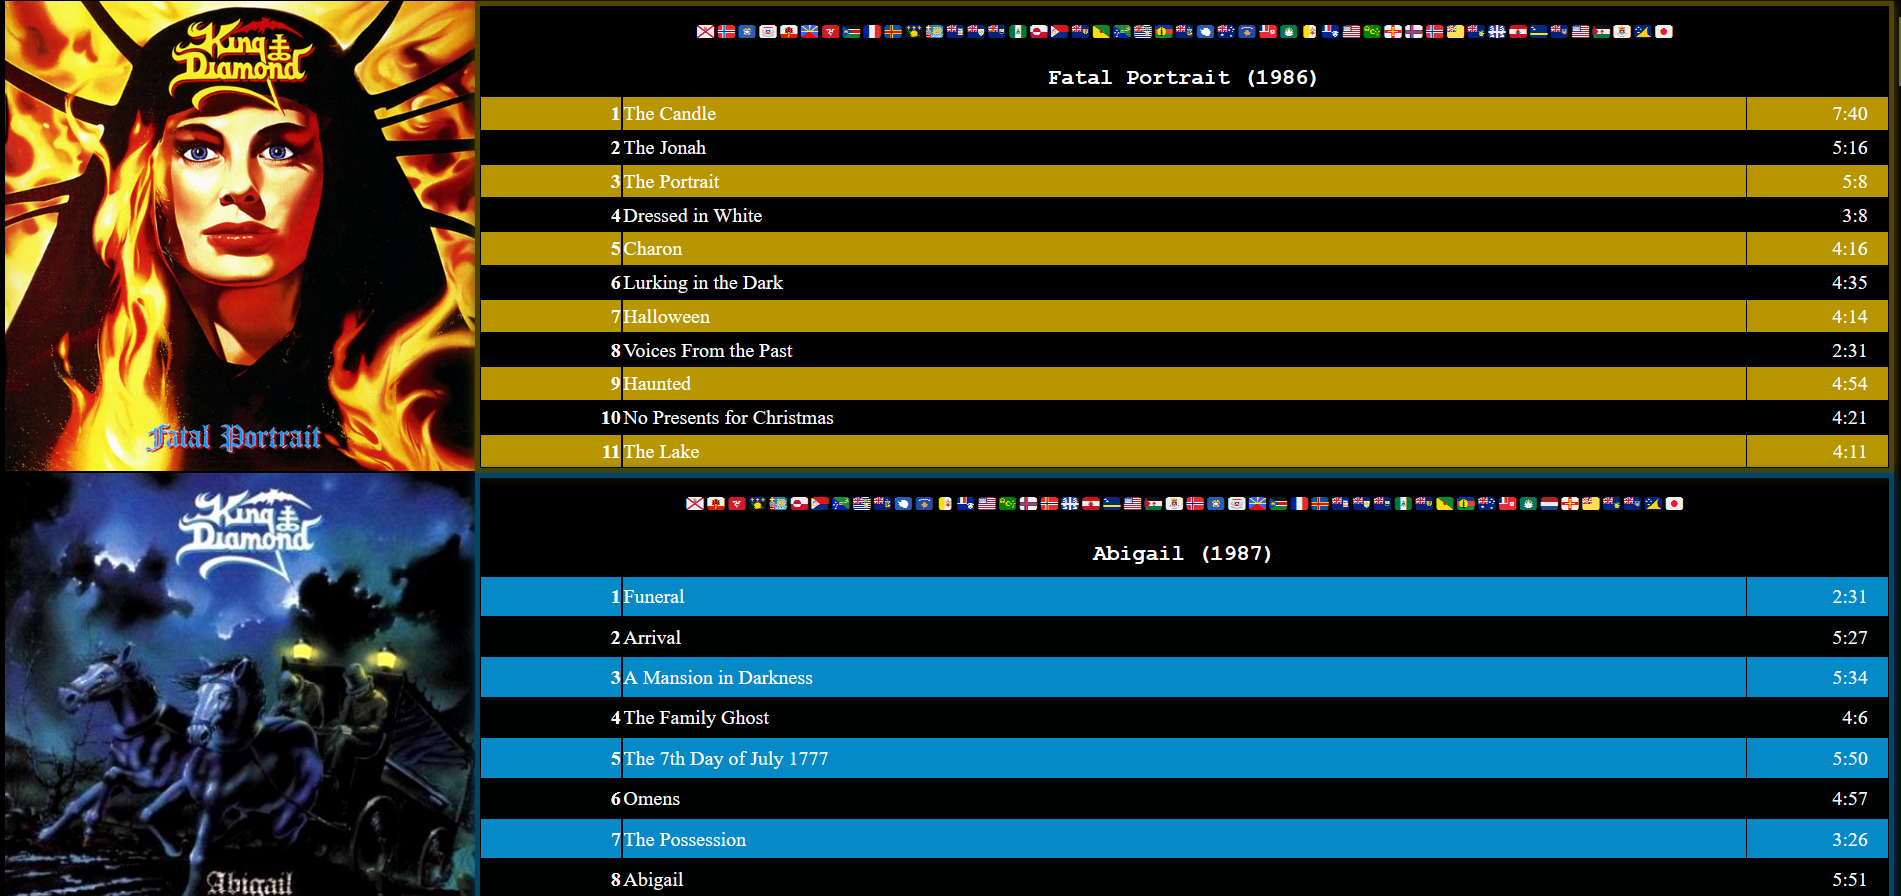
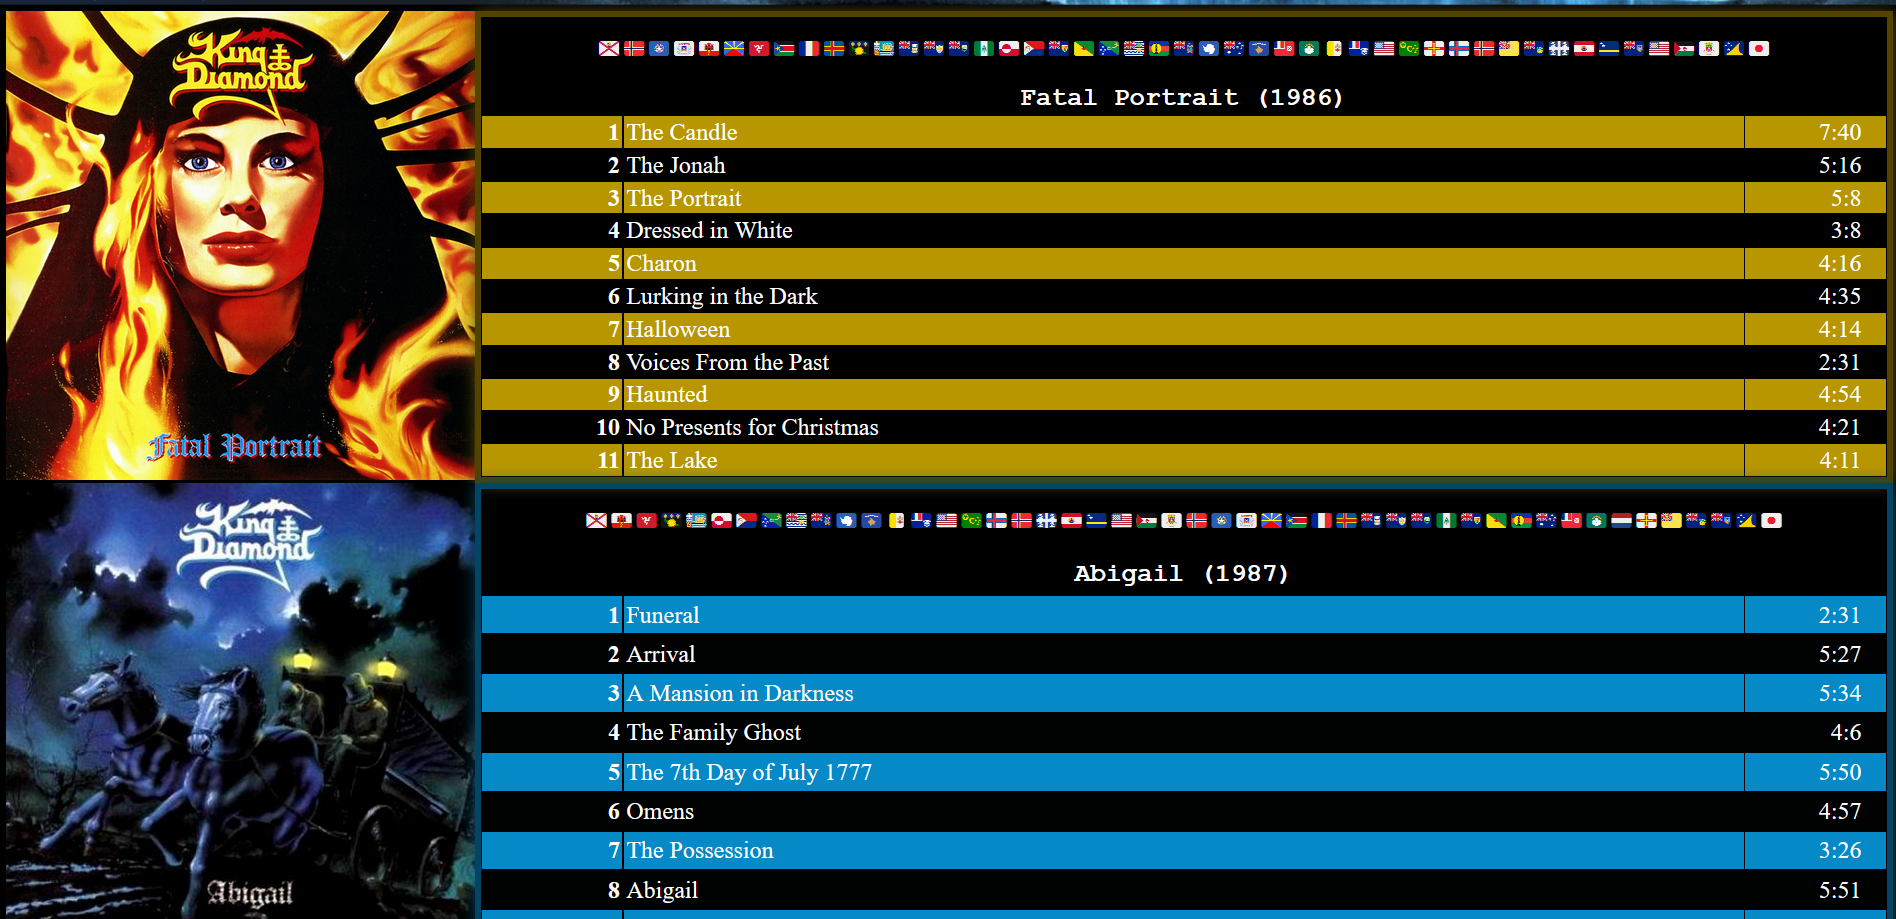
Done

Changed region(s): [[0.0, 0.0, 1.0, 1.0], [0.2178, 0.5938, 0.2489, 0.625]]

diff --git a/xquery_demo.md b/xquery_demo.md
@@ -164,7 +164,7 @@ array:size($dates)
 8
 ```
 
-4. **Feladat:** Állítsuk elő azt a JSON dokumentumot, ami tartalmazza a kiadókat. A kiadókhoz adjuk meg a kiadott albumok címét, illetve kiadási dátumát. Rendezzük a kiadókon belül az albumokat kiadási dátumok szerint növekvő sorrendben!</br>
+4. **Feladat:** Állítsuk elő azt a JSON dokumentumot, ami tartalmazza a kiadókat. A kiadókhoz adjuk meg a kiadott albumok címét, illetve kiadási dátumukat. Rendezzük a kiadókon belül az albumokat kiadási dátumok szerint növekvő sorrendben!</br>
 Típus: **JSON**
 ```xquery
 (:~
@@ -658,7 +658,7 @@ map:entry("publishers", array:join(
 ```
 
 5. **Feladat:**  </br>
-Készítsük el azt a JSON dokumentumot, amit tartalmazza azt a 3 legnépszerűbb országot, ahol a legtöbb kiadás történt. Az országok mellé adjuk meg, hogy hány kiadással rendelkeznek, illetve melyik album a legnépszerűbb az adott országban és azt hányszor adták ki az adott országban!  
+Készítsük el azt a JSON dokumentumot, ami tartalmazza azt a 3 legnépszerűbb országot, ahol a legtöbb kiadás történt. Az országok mellé adjuk meg, hogy hány kiadással rendelkeznek, illetve melyik album a legnépszerűbb az adott országban és azt hányszor adták ki az adott országban!  
 Típus: **JSON**  
 ```xquery
 (:~
@@ -773,6 +773,8 @@ return $resultDocument
 ```
 
 6. **Feladat:** Készítsük el _King Diamond_ diszkográfiájának XML reprezentációját! A diszkográfia albumonként tartalmazza a címét, zenedarabjainak címét és játékidejét percben, illetve a kiadási évét. Ha egy albumnnak több kiadása is van, akkor a legelső kiadását tegyük a diszkográfiába! </br>
+
+Kapcsolódó [XML Séma](./xml/simple_discography.xsd)   
 Típus: **XML**
 ```xquery
 (:~
@@ -851,8 +853,6 @@ return
     else $resultDocument
 ```
 **Válasz kiemnet**
-
-Kapcsolódó [XML Séma](./xml/simple_discography.xsd)
 
 ```xml
 <discography>
@@ -1623,7 +1623,7 @@ let $releaseEuropeanCountries :=
 </europe>
 ```
 
-9. **Feladat:** Mely médiaformátumok preferáltak az egyes kiadóknál az európai piacon? Készítsük el azt az XML dokumentumot, ami erre a kérdésre választ ad! Az egyes kiadókhoz adjuk meg az általuk eddig használt formátumokat népszerűség szerint csökkenő sorrendben, továbbá a formátumokhoz, hogy hányszor lettek használva az adott kiadó által, illetve, hogy melyik az adott kiadó által először kiadott, albumnál kerültek először felhasználásra és mikor? A válaszhoz használjuk fel a `restcountries.com` WebAPI szolgáltatását!</br>
+9. **Feladat:** Mely médiaformátumok preferáltak az egyes kiadóknál az európai piacon? Készítsük el azt az XML dokumentumot, ami erre a kérdésre választ ad! Az egyes kiadókhoz adjuk meg az általuk eddig használt formátumokat népszerűség szerint csökkenő sorrendben, továbbá a formátumokhoz, hogy hányszor lettek használva az adott kiadó által, illetve, hogy melyik az adott kiadó által először kiadott albumnál kerültek először felhasználásra és mikor? A válaszhoz használjuk fel a `restcountries.com` WebAPI szolgáltatását!</br>
 
 Kapcsolódó [XML Séma](./xml/european_labels_formats.xsd)  
 
@@ -1843,13 +1843,14 @@ let $albumTitles := array {fn:distinct-values(for $r in $releases?* return fn:re
                     (for $r in $releases?*
                     where $r?cover-art-archive?front and fn:replace($r?title, '"+|“+|”+|’+|…+|–+', '') = $title and fn:exists($r?date)
                     order by $r?date
-                    return $r)[1]
-                    
+                    return $r)[1],
+            $rDate := local:get-first-release-date($title)
+        order by $rDate           
         return 
         if (fn:exists($firstInstance?id))
         then map {
             "title" : fn:replace($firstInstance?title, '"+|“+|”+|’+|…+|–+', ''),
-            "release-date": local:get-first-release-date($title),
+            "release-date": $rDate,
             "id": $firstInstance?id,
             "tracks": array:join(for $m in $firstInstance?media?* return $m?tracks)
         }
@@ -1869,13 +1870,17 @@ let $albumTitles := array {fn:distinct-values(for $r in $releases?* return fn:re
                         <div class="album-{$idx}">
                             <div class="coverContainer">
                                 <img src="{local:get-front-album-cover($album?id)}" alt="Cover Of {$album?title}" class="album-cover-{$idx}"/>
-                            </div>
+                            </div>                           
                             <div class="tracksContainer">
+                                 <div class="flagContainer">
+                                     <p>
+                                          {local:get-release-country-flags($album?title)} 
+                                     </p>
+                                 </div>
                                 <table class="album">
                                     <thead>
                                         <tr class="albumHeader">
-                                            <th colspan="2">{$album?title} {($album?release-date)}</th>
-                                            <th>{local:get-release-country-flags($album?title)}</th>
+                                            <th colspan="3">{fn:concat($album?title, ' (', $album?release-date, ')')}</th>
                                         </tr>
                                     </thead>
                                     <tbody class="albumBody">
@@ -1900,7 +1905,10 @@ let $albumTitles := array {fn:distinct-values(for $r in $releases?* return fn:re
     </html>}
    return $resultDocument
 ```
-**Válasz kiemnet**
-```html5
+**Képernyőmentések**  
+Desktop:  
+![FullScreen](./html5/screenshots/2.PNG)
 
-```
+
+"Mobile":  
+![MobileLol](./html5/screenshots/1.PNG)
